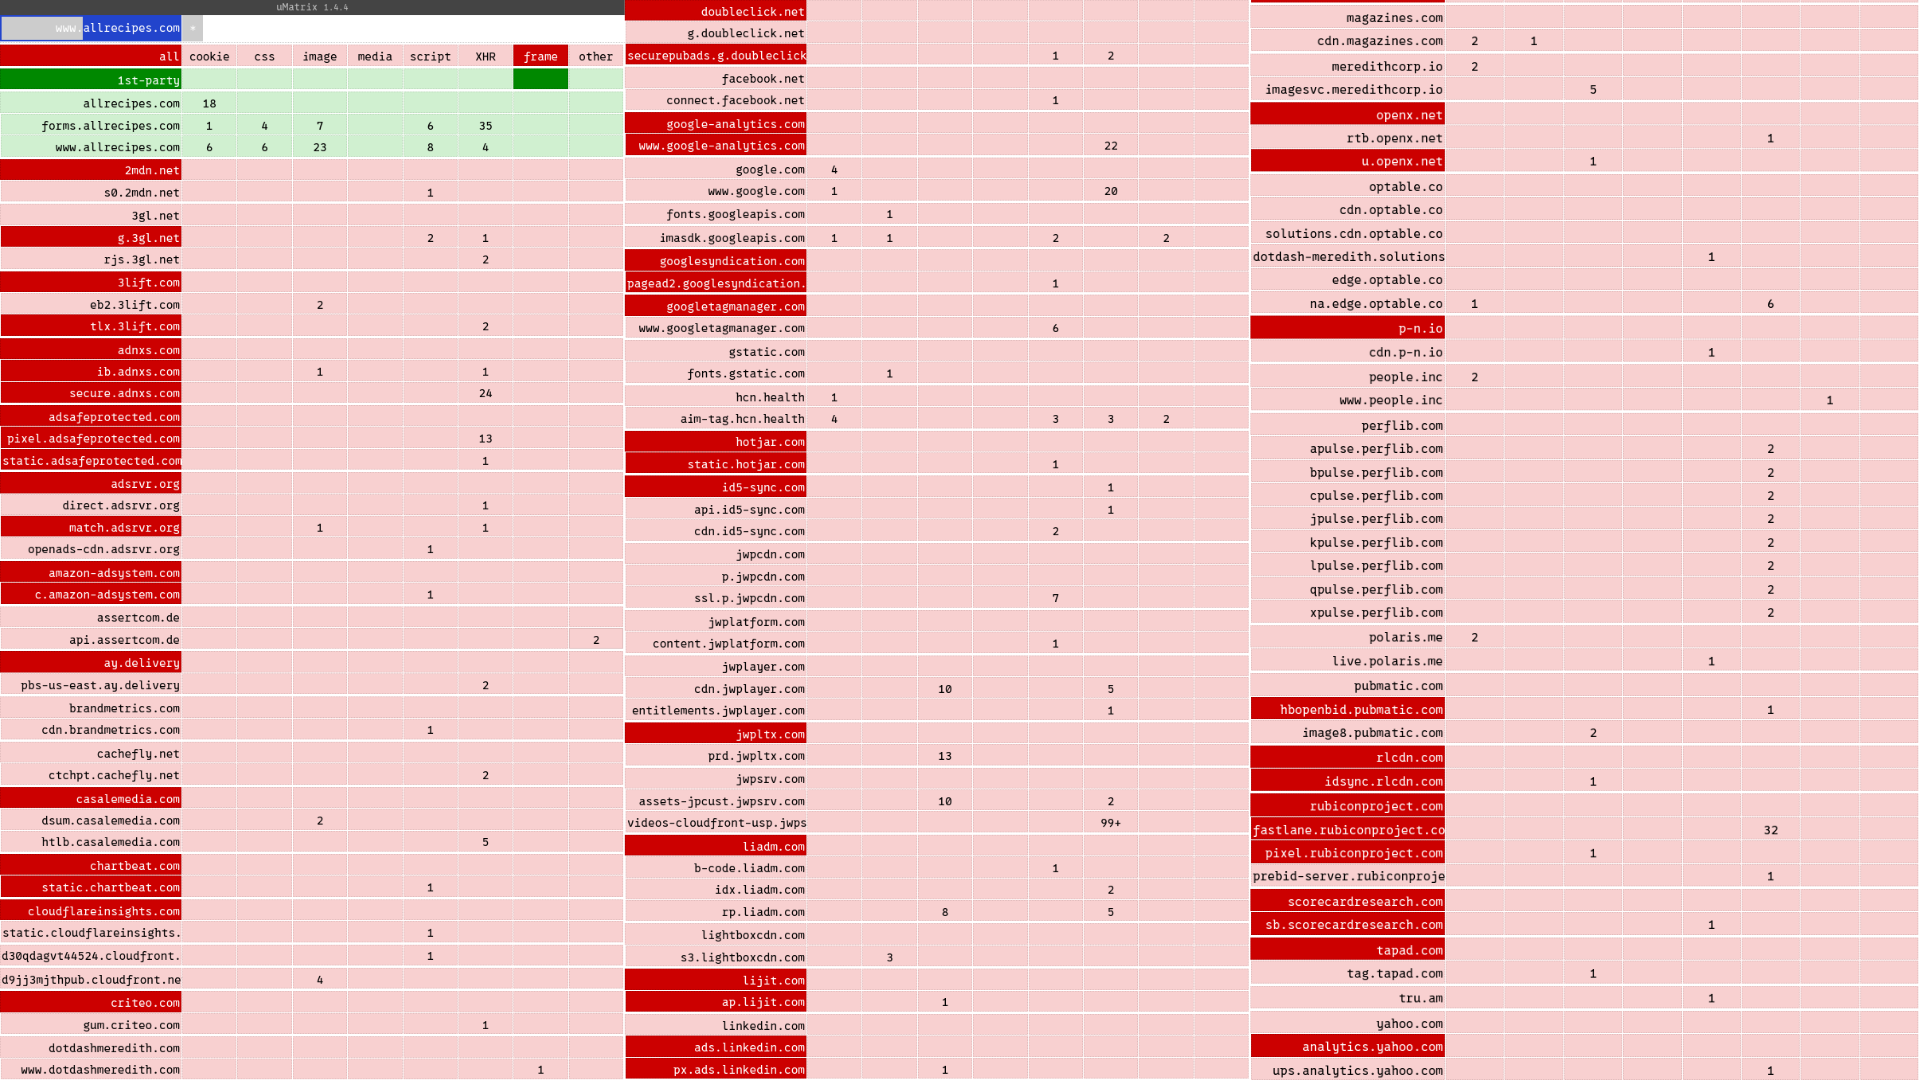
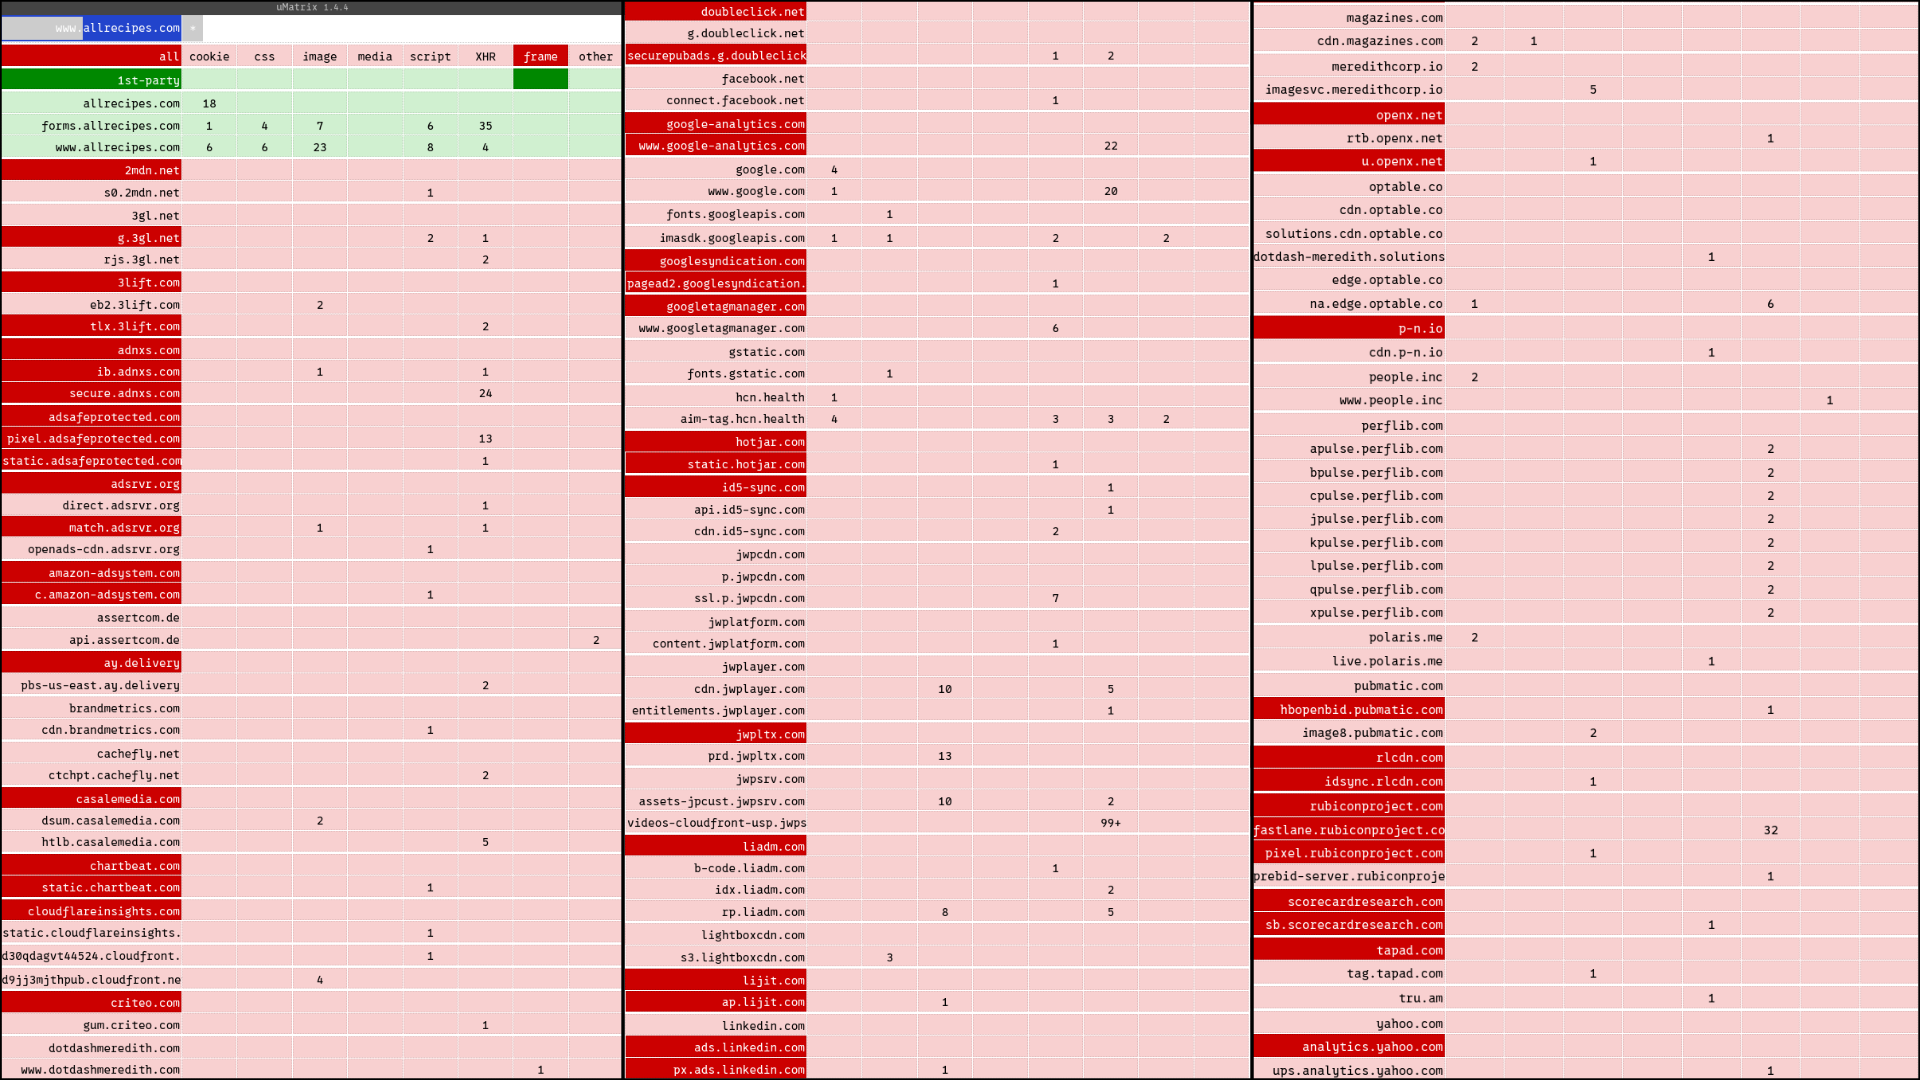
move tech philosphy to its own article; expose posts/ route; tweak sitewide styles

diff --git a/src/styles/global.css b/src/styles/global.css
@@ -1,39 +1,39 @@
 /* FONTS */
 
-@font-face {
-  font-family: "Libertinus Serif";
-  src: url("/fonts/LibertinusSerif/LibertinusSerif-Regular.woff2")
-    format("woff2");
-  font-style: normal;
-  font-weight: 400;
-  font-display: swap;
-}
-
-@font-face {
-  font-family: "Libertinus Serif";
-  src: url("/fonts/LibertinusSerif/LibertinusSerif-Bold.woff2") format("woff2");
-  font-style: normal;
-  font-weight: 700;
-  font-display: swap;
-}
-
-@font-face {
-  font-family: "Libertinus Serif";
-  src: url("/fonts/LibertinusSerif/LibertinusSerif-BoldItalic.woff2")
-    format("woff2");
-  font-style: italic;
-  font-weight: 700;
-  font-display: swap;
-}
-
-@font-face {
-  font-family: "Libertinus Serif";
-  src: url("/fonts/LibertinusSerif/LibertinusSerif-Italic.woff2")
-    format("woff2");
-  font-style: italic;
-  font-weight: 400;
-  font-display: swap;
-}
+/* @font-face { */
+/*   font-family: "Libertinus Serif"; */
+/*   src: url("/fonts/LibertinusSerif/LibertinusSerif-Regular.woff2") */
+/*     format("woff2"); */
+/*   font-style: normal; */
+/*   font-weight: 400; */
+/*   font-display: swap; */
+/* } */
+/**/
+/* @font-face { */
+/*   font-family: "Libertinus Serif"; */
+/*   src: url("/fonts/LibertinusSerif/LibertinusSerif-Bold.woff2") format("woff2"); */
+/*   font-style: normal; */
+/*   font-weight: 700; */
+/*   font-display: swap; */
+/* } */
+/**/
+/* @font-face { */
+/*   font-family: "Libertinus Serif"; */
+/*   src: url("/fonts/LibertinusSerif/LibertinusSerif-BoldItalic.woff2") */
+/*     format("woff2"); */
+/*   font-style: italic; */
+/*   font-weight: 700; */
+/*   font-display: swap; */
+/* } */
+/**/
+/* @font-face { */
+/*   font-family: "Libertinus Serif"; */
+/*   src: url("/fonts/LibertinusSerif/LibertinusSerif-Italic.woff2") */
+/*     format("woff2"); */
+/*   font-style: italic; */
+/*   font-weight: 400; */
+/*   font-display: swap; */
+/* } */
 
 @font-face {
   font-family: "0xProto";

diff --git a/src/content/about.md b/src/content/about.md
@@ -8,85 +8,10 @@ Beyond sitting behind a screen and working on side projects, I enjoy playing spo
 ![Sunset over Yonah Mountain](../content/images/mtns.webp)
 _Sunset over Yonah Mountain, September 2024_
 
-![Rappel down Starter Pit in Ellison's Cave](../content/images/starter_pit.webp)
-_Starter Pit in Ellison's Cave, March 2026_
+Find my technical philosophy in [this post](posts/technical-philosophy).
 
-## Technical Philosophy
-
-Every developer has their dogmas, so here I list some beliefs I have about how software should be designed, written, and maintained.
-
-### Free Software
-
-Free software isn't software that doesn't cost money; it is the idea that "gives the user the freedom to share, study, and modify it." The Free Software Movement of the 80's and 90's served to liberate users and developers from digital tyranny by megacompanies distributing rigid, proprietary software. Virtually every tool, every company, and every computer on earth rely on some result of the movement. Free software undergirds how your computer and phone download files from the internet, play video and audio, and display websites, among countless other operations. In fact, Linux, possibly the most popular result of the Free Software Movement, [runs roughly 44% of all cloud compute in the world](https://www.mordorintelligence.com/industry-reports/server-operating-system-market).
-
-This movement is the root of most creativity, freedom, and research regarding software and the internet. While the movement largely succeeded in its goals, the majority of software that people use today is proprietary code on top of these projects. Hackability and privacy are locked under binary blobs of code.
-
-Developers today ought to honor the philosophy that gave them their ability to learn from and contribute to codebases. In almost every circumstance, I believe in writing free and open source software, even when it may make immediate profitability more difficult for a company.
-
-For more information on free software, see the [Free Software Foundation's literature](https://www.fsf.org/about/what-is-free-software).
-
-### Minimal Complexity
-
-As a developer, one should **always** be seeking to minimize complexity.
-Often, how complex a project will be is determined when the idea is conceived.
-Choice of architecture and feature scope affect complexity the most, which may materializes short or long after the choices were made.
-
-The Unix philosophy encompasses this idea well. One of the creators of the philosophy compiled the following [maxims](https://archive.org/details/bstj57-6-1899):
-
-> - Make each program do one thing well. To do a new job, build afresh rather than complicate old programs by adding new features.
-> - Expect the output of every program to become the input to another, as yet unknown, program. Don't clutter output with extraneous information. Avoid stringently columnar or binary input formats. Don't insist on interactive input.
-> - Design and build software, even operating systems, to be tried early, ideally within weeks. Don't hesitate to throw away the clumsy parts and rebuild them.
-> - Use tools in preference to unskilled help to lighten a programming task, even if you have to detour to build the tools and expect to throw some of them out after you've finished using them.
-
-See a good summary of the Unix philosophy [here](http://www.catb.org/~esr/writings/taoup/html/ch01s06.html).
-
-As outlined above, these projects defined the software world, so the ideas that built Unix should at least be considered.
-However, organizations today seem desperate to pack as many hot new features in their software using the hot new framework that came out last week.
-The NPM JavaScript ecosystem particularly causes feature packed websites at the cost of bloated development environments, [slower load times](https://bundlephobia.com), and a fresh vulnerability each week.
-
-Consider a popular recipe website like [allrecipes.com](https://www.allrecipes.com/).
-When a person clicks on a link to that website, they likely have one goal in mind: reading a recipe, assumedly some text and a few pictures.
-
-Instead, the site bombards them with the following before getting to the content:
-
-- Thick header with lots of white space
-- Banner ads announcements
-- Full screen ads
-- Popup autoplaying videos
-
-All of this bloat requires megabytes of data to be downloaded, not to mention the trackers, analytics, and actual photos and content of the recipe.
-Using the ad blocker [uMatrix](https://github.com/gorhill/uMatrix) reveals just how much _junk_ allrecipes.com is fetching.
-
-![Screenshot of uMatrix on allrecipes.com](../content/images/allrecipes_umatrix.png)
-
-The cells in green are the content that is loaded by the actual site (allrecipes.com), while the cells in red are 3rd party requests that uMatrix blocks.
-Ironic that the site still loads the header, recipe text and images, comments, and footer when all of the domains in red are blocked.
-None of it is essential to the page loading, yet it still loads and eats your device's bandwidth and battery.
-
-So of the code running on this website is antiproductive to the user.
-It costs time, energy, and money to develop and arguably to run, but it only inhibits the user's goal of viewing a recipe.
-
-Sites like these, which are most of the top sites on the internet, exemplify the opposite of minimalism.
-Bandwith ought to be treated as a resource. JavaScript ought to be a last resort, when a **necessary** feature **cannot** be implemented with pure HTML and CSS.
-There is more to say about the web, so see [Luke Smith's video on the topic](https://youtu.be/cvDyQUpaFf4).
-
-In the case of web development, the project is often doomed to complexity before it begins due to the nature of the tooling available.
-However, sometimes projects begin relatively simple, then _feature creep_ occurs.
-
-To give an example of the consequences of incremental complexity, consider Microsoft Outlook.
-The email service used to be a favorite among profesisonals using Windows.
-Recently, it has fallen from grace due to a variety of software design choices that resulted in _New Outlook_.
-
-- Native backend ditched in favor of Edge WebView2
-- AI buttons littered about the UI
-- Clean Windows 10 style UI updated to clunky [Fluent 2](https://fluent2.microsoft.design/) components
-
-These changes resulted in a [slow](https://www.windowslatest.com/2026/06/15/microsofts-new-outlook-takes-10-seconds-to-do-what-outlook-classic-does-instantly-on-windows/) web app that [regresses in its capabilities](https://support.microsoft.com/en-us/outlook/getstarted/feature-comparison-between-new-outlook-and-classic-outlook) and forces AI and [Edge](https://support.microsoft.com/en-US/Outlook/web-links-from-outlook-emails-and-teams-chats-open-in-microsoft-edge) down the user's throat.
-Despite its flaws, Classic Outlook was functional and had a clear UI. The complexity of switching backends, updating to an undercooked design system, and rapidly adding AI "features" destroyed Outlook.
-
-Unfortunately, the idea of minimizing complexity is not taken seriously enough today. _Minimalism_ is either touted as a feature by developers trying to glaze their small project or sequestered to a subculture of the Linux development world.
-
-Lines of code is not a metric to brag about, unless the number is small and the software is very useful. The [suckless](https://suckless.org) group exemplify good software resulting from minimal complexity. Their [philosophy](https://suckless.org/philosophy/) is worth a read.
+<!-- ![Rappel down Starter Pit in Ellison's Cave](../content/images/starter_pit.webp) -->
+<!-- _Starter Pit in Ellison's Cave, March 2026_ -->
 
 ## Contact
 
@@ -96,7 +21,7 @@ I don't have any social media. For business purposes, reach out to <dgdurling@pm
 
 - [Git server](https://git.dgd.sh)
 - [GitHub (mirror)](https://github.com/daqnal)
-- [LinkedIn](https://linkedin.com/in/dgdur) (I don't check messages here)
+<!-- - [LinkedIn](https://linkedin.com/in/dgdur) (I don't check messages here) -->
 
 ---
 

diff --git a/src/content/posts/technical-philosophy.md b/src/content/posts/technical-philosophy.md
@@ -1,0 +1,81 @@
+---
+title: Technical Philosophy
+pubDate: 2026-06-24
+desc: How software should be designed and written
+tags: ["tech", "foss", "minimalism"]
+---
+
+Every developer has their dogmas, so here I list some beliefs I have about how software should be designed, written, and maintained.
+
+## Free Software
+
+Free software isn't software that doesn't cost money; it is the idea that "gives the user the freedom to share, study, and modify it." The Free Software Movement of the 80's and 90's served to liberate users and developers from digital tyranny by megacompanies distributing rigid, proprietary software. Virtually every tool, every company, and every computer on earth rely on some result of the movement. Free software undergirds how your computer and phone download files from the internet, play video and audio, and display websites, among countless other operations. In fact, Linux, possibly the most popular result of the Free Software Movement, [runs roughly 44% of all cloud compute in the world](https://www.mordorintelligence.com/industry-reports/server-operating-system-market).
+
+This movement is the root of most creativity, freedom, and research regarding software and the internet. While the movement largely succeeded in its goals, the majority of software that people use today is proprietary code on top of these projects. Hackability and privacy are locked under binary blobs of code.
+
+Developers today ought to honor the philosophy that gave them their ability to learn from and contribute to codebases. In almost every circumstance, I believe in writing free and open source software, even when it may make immediate profitability more difficult for a company.
+
+For more information on free software, see the [Free Software Foundation's literature](https://www.fsf.org/about/what-is-free-software).
+
+## Minimal Complexity
+
+As a developer, one should **always** be seeking to minimize complexity.
+Often, how complex a project will be is determined when the idea is conceived.
+Choice of architecture and feature scope affect complexity the most, which may materializes short or long after the choices were made.
+
+The Unix philosophy encompasses this idea well. One of the creators of the philosophy compiled the following [maxims](https://archive.org/details/bstj57-6-1899):
+
+> - Make each program do one thing well. To do a new job, build afresh rather than complicate old programs by adding new features.
+> - Expect the output of every program to become the input to another, as yet unknown, program. Don't clutter output with extraneous information. Avoid stringently columnar or binary input formats. Don't insist on interactive input.
+> - Design and build software, even operating systems, to be tried early, ideally within weeks. Don't hesitate to throw away the clumsy parts and rebuild them.
+> - Use tools in preference to unskilled help to lighten a programming task, even if you have to detour to build the tools and expect to throw some of them out after you've finished using them.
+
+See a good summary of the Unix philosophy [here](http://www.catb.org/~esr/writings/taoup/html/ch01s06.html).
+
+As outlined above, these projects defined the software world, so the ideas that built Unix should at least be considered.
+However, organizations today seem desperate to pack as many hot new features in their software using the hot new framework that came out last week.
+The NPM JavaScript ecosystem particularly causes feature packed websites at the cost of bloated development environments, [slower load times](https://bundlephobia.com), and a fresh vulnerability each week.
+
+Consider a popular recipe website like [allrecipes.com](https://www.allrecipes.com/).
+When a person clicks on a link to that website, they likely have one goal in mind: reading a recipe, assumedly some text and a few pictures.
+
+Instead, the site bombards them with the following before getting to the content:
+
+- Thick header with lots of white space
+- Banner ads announcements
+- Full screen ads
+- Popup autoplaying videos
+
+All of this bloat requires megabytes of data to be downloaded, not to mention the trackers, analytics, and actual photos and content of the recipe.
+Using the ad blocker [uMatrix](https://github.com/gorhill/uMatrix) reveals just how much _junk_ allrecipes.com is fetching.
+
+![Screenshot of uMatrix on allrecipes.com](../images/allrecipes_umatrix.png)
+
+The cells in green are the content that is loaded by the actual site (allrecipes.com), while the cells in red are 3rd party requests that uMatrix blocks.
+Ironic that the site still loads the header, recipe text and images, comments, and footer when all of the domains in red are blocked.
+None of it is essential to the page loading, yet it still loads and eats your device's bandwidth and battery.
+
+So of the code running on this website is antiproductive to the user.
+It costs time, energy, and money to develop and arguably to run, but it only inhibits the user's goal of viewing a recipe.
+
+Sites like these, which are most of the top sites on the internet, exemplify the opposite of minimalism.
+Bandwith ought to be treated as a resource. JavaScript ought to be a last resort, when a **necessary** feature **cannot** be implemented with pure HTML and CSS.
+There is more to say about the web, so see [Luke Smith's video on the topic](https://youtu.be/cvDyQUpaFf4).
+
+In the case of web development, the project is often doomed to complexity before it begins due to the nature of the tooling available.
+However, sometimes projects begin relatively simple, then _feature creep_ occurs.
+
+To give an example of the consequences of incremental complexity, consider Microsoft Outlook.
+The email service used to be a favorite among profesisonals using Windows.
+Recently, it has fallen from grace due to a variety of software design choices that resulted in _New Outlook_.
+
+- Native backend ditched in favor of Edge WebView2
+- AI buttons littered about the UI
+- Clean Windows 10 style UI updated to clunky [Fluent 2](https://fluent2.microsoft.design/) components
+
+These changes resulted in a [slow](https://www.windowslatest.com/2026/06/15/microsofts-new-outlook-takes-10-seconds-to-do-what-outlook-classic-does-instantly-on-windows/) web app that [regresses in its capabilities](https://support.microsoft.com/en-us/outlook/getstarted/feature-comparison-between-new-outlook-and-classic-outlook) and forces AI and [Edge](https://support.microsoft.com/en-US/Outlook/web-links-from-outlook-emails-and-teams-chats-open-in-microsoft-edge) down the user's throat.
+Despite its flaws, Classic Outlook was functional and had a clear UI. The complexity of switching backends, updating to an undercooked design system, and rapidly adding AI "features" destroyed Outlook.
+
+Unfortunately, the idea of minimizing complexity is not taken seriously enough today. _Minimalism_ is either touted as a feature by developers trying to glaze their small project or sequestered to a subculture of the Linux development world.
+
+Lines of code is not a metric to brag about, unless the number is small and the software is very useful. The [suckless](https://suckless.org) group exemplifies good software resulting from minimal complexity. Their [philosophy](https://suckless.org/philosophy/) is worth a read.